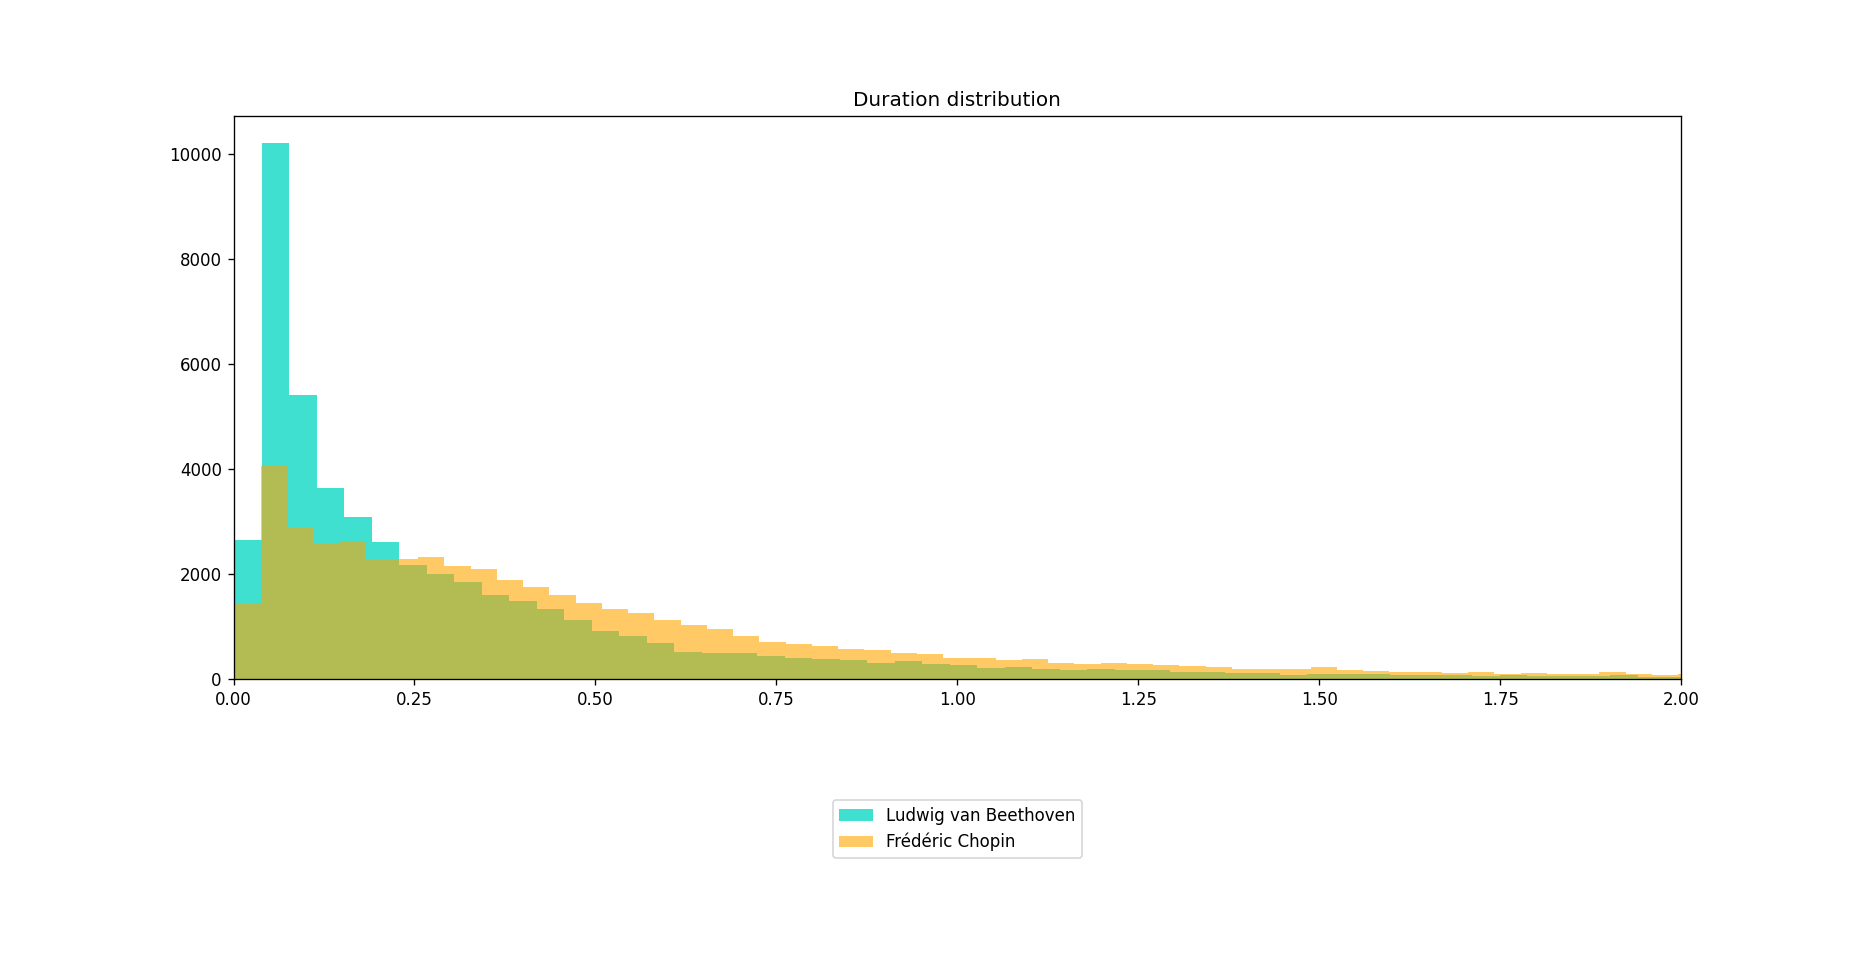
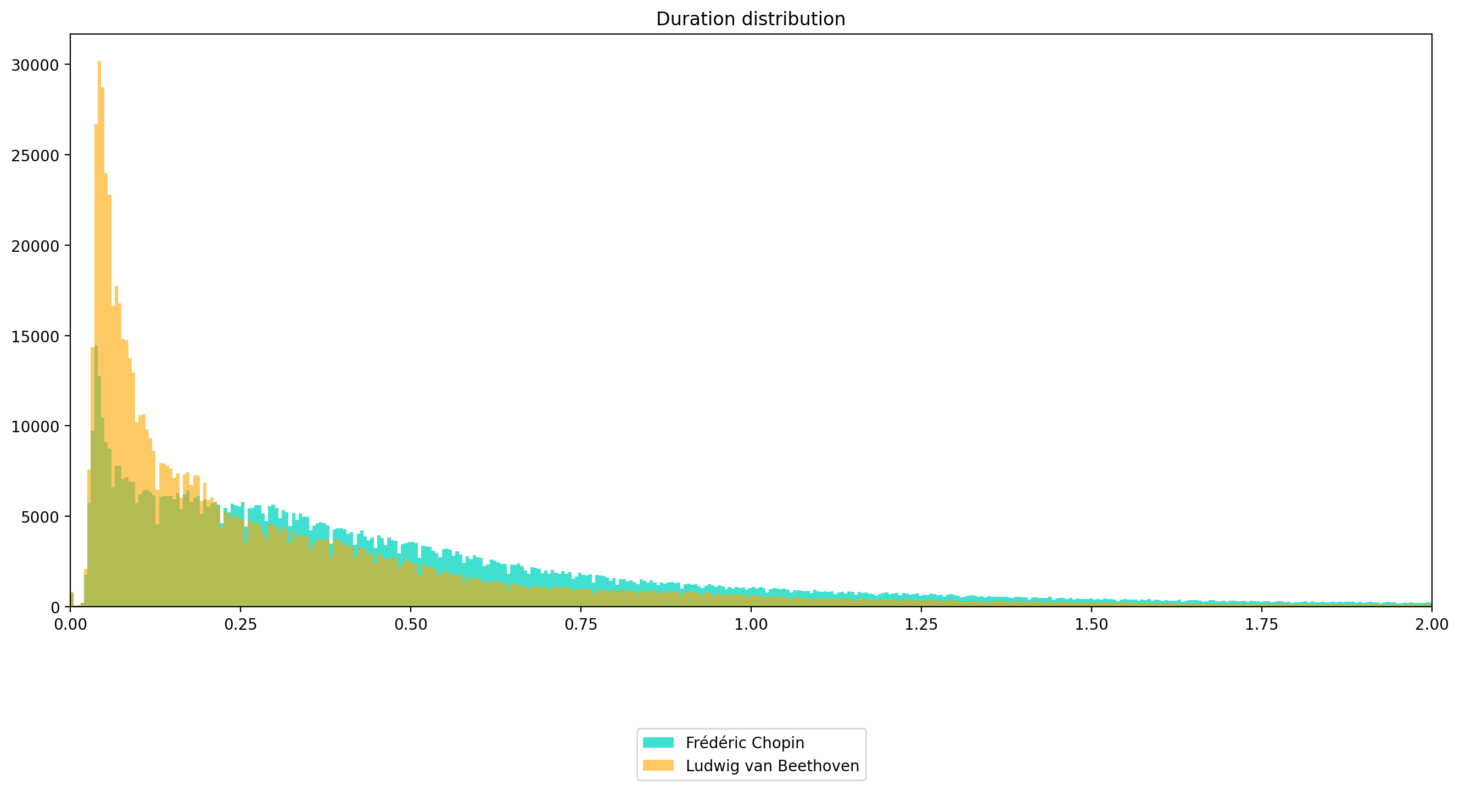
cleaner scripts

diff --git a/midi_basics/compare_composers.py b/midi_basics/compare_composers.py
@@ -1,4 +1,5 @@
 import yaml
+import numpy as np
 import pandas as pd
 import streamlit as st
 import matplotlib.pyplot as plt
@@ -26,17 +27,19 @@ def load_and_prepare_dataset():
 
 
 def plot_duration_distribution(
-    first_composer_notes,
-    second_composer_notes,
-    composer1,
-    composer2,
+    first_composer_notes: np.ndarray,
+    second_composer_notes: np.ndarray,
+    composer1: str,
+    composer2: str,
 ):
     """
     Plot the duration distribution of notes for two composers.
     """
     # Sample data to improve plot readability
-    first_composer_notes = first_composer_notes.sample(50000)
-    second_composer_notes = second_composer_notes.sample(50000)
+    sample_size = min(len(first_composer_notes), len(second_composer_notes))
+    sample_size = int(0.9 * sample_size)
+    first_composer_notes = first_composer_notes.sample(sample_size)
+    second_composer_notes = second_composer_notes.sample(sample_size)
 
     # Plotting
     width_px = 1920
@@ -49,17 +52,18 @@ def plot_duration_distribution(
     fig, ax = plt.subplots(figsize=figsize, dpi=dpi)
 
     # Plot distributions
+    bins = np.linspace(0, 5, 1000)
     ax.set_title("Duration distribution")
     ax.hist(
         first_composer_notes.duration,
-        bins=1000,
+        bins=bins,
         color="turquoise",
         label=composer1,
     )
     ax.hist(
         second_composer_notes.duration,
         alpha=0.6,
-        bins=1000,
+        bins=bins,
         color="orange",
         label=composer2,
     )
@@ -72,7 +76,6 @@ def plot_duration_distribution(
 
 
 def main():
-    st.title("MIDI Composer Duration Distribution Comparison")
     st.write("Select two composers from the dropdown menu to compare their note duration distributions.")
 
     # Load and prepare dataset
@@ -81,21 +84,16 @@ def main():
     # List of unique composers in the dataset
     unique_composers = sorted(source_df["composer"].unique())
 
-    # Composer selection in the sidebar
-    composer1 = st.sidebar.selectbox(
+    composer1 = st.selectbox(
         "Select first composer:",
         unique_composers,
         index=unique_composers.index("Ludwig van Beethoven"),
     )
-    composer2 = st.sidebar.selectbox(
+    composer2 = st.selectbox(
         "Select second composer:",
         unique_composers,
         index=unique_composers.index("Frédéric Chopin"),
     )
-
-    if composer1 == composer2:
-        st.warning("Please select two different composers.")
-        return
 
     composer_dataframes = {
         composer1: [],

diff --git a/midi_basics/compare_pieces.py b/midi_basics/compare_pieces.py
@@ -7,15 +7,15 @@ from browse_dataset import select_record, select_dataset
 
 
 def plot_histogram(
-    data1,
-    data2,
-    label1,
-    label2,
-    xlabel,
-    ylabel,
-    title,
-    bins=88,
-):
+    data1: np.ndarray,
+    data2: np.ndarray,
+    label1: str,
+    label2: str,
+    xlabel: str,
+    ylabel: str,
+    title: str,
+    bins: np.ndarray,
+) -> tuple[plt.Figure, plt.Axes]:
     """Utility function to plot histograms for comparison."""
     width_px = 1920
     height_px = 1080
@@ -56,7 +56,7 @@ def plot_histogram(
     return fig, ax
 
 
-def main():
+def main() -> None:
     dataset = select_dataset()
     select_columns = st.columns(2)
 
@@ -68,8 +68,7 @@ def main():
     first_piece = ff.MidiPiece.from_huggingface(first_record)
     second_piece = ff.MidiPiece.from_huggingface(second_record)
 
-    # Get truncated titles for labels
-    def get_label(piece, max_length=30):
+    def get_label(piece: ff.MidiPiece) -> str:
         composer = piece.source.get("composer", "Unknown Composer")
         title = piece.source.get("title", "Unknown Title")
         return f"{title}, {composer}"
@@ -80,8 +79,8 @@ def main():
     # Plot pitch comparison
     bins = np.linspace(21, 109, num=89)
     fig, ax = plot_histogram(
-        data1=first_piece.df.pitch,
-        data2=second_piece.df.pitch,
+        data1=first_piece.df.pitch.values,
+        data2=second_piece.df.pitch.values,
         label1=label1,
         label2=label2,
         xlabel="Pitch",
@@ -97,8 +96,8 @@ def main():
     # Plot dstart comparison
     bins = np.linspace(0, 1.00, num=200)
     fig, ax = plot_histogram(
-        data1=first_piece.df.dstart.dropna(),
-        data2=second_piece.df.dstart.dropna(),
+        data1=first_piece.df.dstart.dropna().values,
+        data2=second_piece.df.dstart.dropna().values,
         label1=label1,
         label2=label2,
         xlabel="Time Difference (s)",
